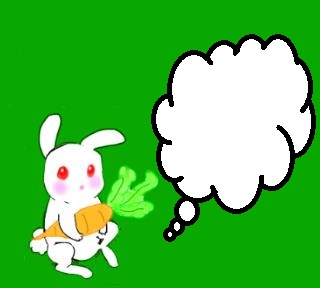
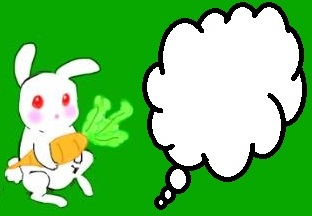
sdfsd
sdfsdf

diff --git a/BasketFun.java b/BasketFun.java
@@ -97,7 +97,7 @@ public class BasketFun extends JPanel{
     }
     add(check);
     add(empty);
-    add(makeButtons("Basket","Clicking the buttons, puts food into this basket!"));
+    //add(makeButtons("Basket","Clicking the buttons, puts food into this basket!"));
     revalidate();
     repaint();
   }
@@ -109,22 +109,22 @@ public class BasketFun extends JPanel{
     {
       randAmnt= randomizeAmounts(maxNum);
       randAmnt2= randomizeAmounts(maxNum);
-      System.out.println("I would like to have " + randAmnt + randomizeFoods(randAmnt) + " and " + randAmnt2 + randomizeFoods(foods,randAmnt2) +".");
+     // System.out.println("I would like to have " + randAmnt + randomizeFoods(randAmnt) + " and " + randAmnt2 + randomizeFoods(foods,randAmnt2) +".");
     }
     else
     {
       randAmnt= randomizeAmounts(maxNum);
-      System.out.println("I would like to have " + randAmnt + randomizeFoods(foods,randAmnt)+".");
+     // System.out.println("I would like to have " + randAmnt + randomizeFoods(foods,randAmnt)+".");
     }
   }
   
-  private String randomizeFoods(int randAmnt)
-  {
-    int r = (int)(Math.random()*foods.size());
-    if(randAmnt !=1 && (levelNum != 2 && (r == 4 || r == 5)))
-      return " "+foods.get(r)+"s";
-    return " "+foods.get(r);
-  }
+  //private String randomizeFoods(int randAmnt)
+ // {
+    //int r = (int)(Math.random()*foods.size());
+    //if(randAmnt !=1 && (levelNum != 2 && (r == 4 || r == 5)))
+     // return " "+foods.get(r)+"s";
+   // return " "+foods.get(r);
+ // }
   
   private int randomizeAmounts(int maxNum)
   {
@@ -183,31 +183,35 @@ public class BasketFun extends JPanel{
     */
   public void paintComponent(Graphics g)
   {
-    BufferedImage b=null, c=null;
+    BufferedImage b=null, c=null,b1=null;
     super.paintComponent(g);
     try
     {
+      
+      
       b = ImageIO.read(new File (backName+".jpg"));
       g.drawImage(b,0,0,null);
+      b1 = ImageIO.read(new File ("Basket.jpg"));
+      g.drawImage(b1,450,90,null);
   if (levelNum==1)
   {
       //for (int i=0;i<chars.length;i++)
       //{
-      c=ImageIO.read(new File("Monkey"+".jpg"));
-      g.drawImage(c,400,590,null);
+      c=ImageIO.read(new File("Squirrel"+".jpg"));
+      g.drawImage(c,400,550,null);
       //}
   }
   else if (levelNum==2)
   {
-     c=ImageIO.read(new File("Monkey"+".jpg"));
-     g.drawImage(c,400,590,null);
+     c=ImageIO.read(new File("Seal"+".jpg"));
+     g.drawImage(c,-10,340,null);
     
   }
   else 
   {
     
-     c=ImageIO.read(new File("Monkey"+".jpg"));
-      g.drawImage(c,400,590,null);
+     c=ImageIO.read(new File("Bunny"+".jpg"));
+      g.drawImage(c,400,400,null);
   }
     }
     catch(IOException e){
@@ -259,7 +263,7 @@ public class BasketFun extends JPanel{
     String []c={"Squirrel","Monkey","Panda"};
     String []b={"Seal","Dolphin1","Turtle","Jelly","Narwhal"};
     String []d={"Pig","Bunny"};
-    BasketFun s= new BasketFun (1,"back1", new Color (37,177,77),c);
+    BasketFun s= new BasketFun (3,"back3", new Color (37,177,77),d);
     //forest green and farm grass green;new Color(37,177,77)
     //ocean 0,126,255
   }
